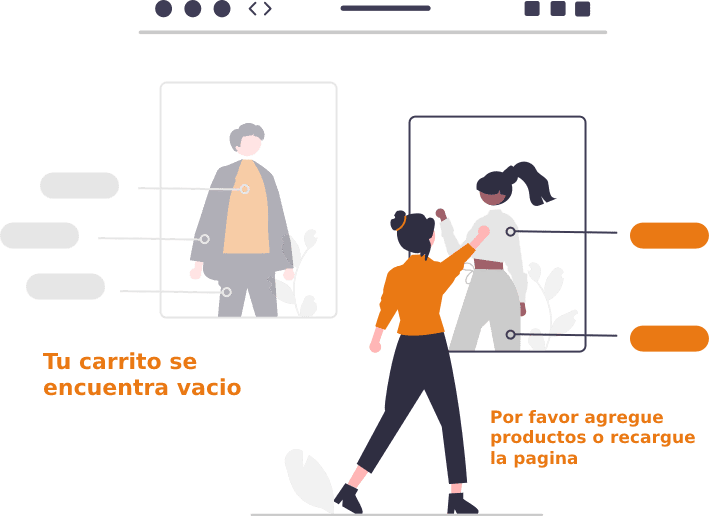
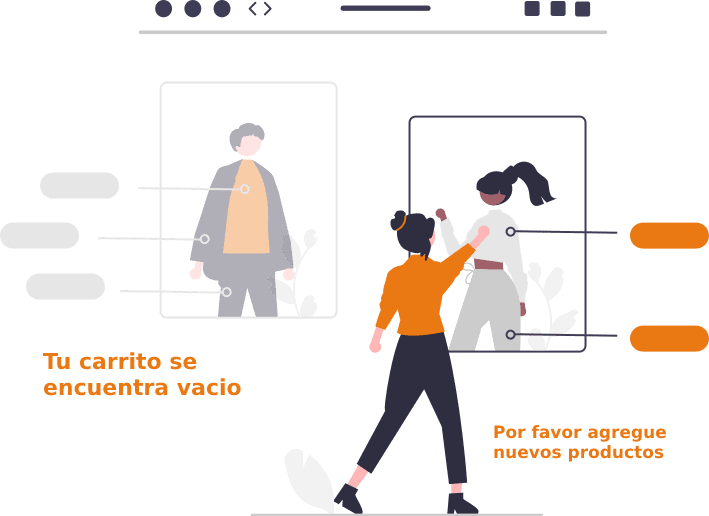
se arregla error

Changed region(s): [[0.6827, 0.7752, 0.9929, 0.8992]]

diff --git a/pages/carrito.html b/pages/carrito.html
@@ -14,8 +14,8 @@
     <link rel="icon" href="../img/icono.png">
     <link rel="stylesheet" href="https://cdn.jsdelivr.net/npm/bootstrap-icons@1.10.3/font/bootstrap-icons.css">
     <link rel="stylesheet" href="https://cdnjs.cloudflare.com/ajax/libs/animate.css/4.1.1/animate.min.css" />
-    <script defer src="../js/main.js"></script>
     <script defer src="../js/carrito.js"></script>
+    <script defer src="../js/main.js"></script>
     <script defer src="../js/darkmode.js"></script>
     <script defer src="../js/sweetAlert.js"></script>
 

diff --git a/pages/remeras.html b/pages/remeras.html
@@ -12,6 +12,7 @@
     <link rel="stylesheet" href="https://cdn.jsdelivr.net/npm/bootstrap-icons@1.10.3/font/bootstrap-icons.css">
     <link rel="stylesheet" type="text/css" href="https://cdn.jsdelivr.net/npm/toastify-js/src/toastify.min.css">
     <title>Urban Outfitters</title>
+    <script defer src="../js/carrito.js"></script>
     <script defer src="../js/main.js"></script>
     <script defer src="../js/darkmode.js"></script>
 

diff --git a/pages/zapatillas.html b/pages/zapatillas.html
@@ -12,6 +12,7 @@
     <link rel="stylesheet" href="https://cdn.jsdelivr.net/npm/bootstrap-icons@1.10.3/font/bootstrap-icons.css">
     <link rel="stylesheet" type="text/css" href="https://cdn.jsdelivr.net/npm/toastify-js/src/toastify.min.css">
     <title>Urban Outfitters</title>
+    <script defer src="../js/carrito.js"></script>
     <script defer src="../js/main.js"></script>
     <script defer src="../js/darkmode.js"></script>
 

diff --git a/pages/buzos.html b/pages/buzos.html
@@ -13,6 +13,8 @@
     <link rel="stylesheet" type="text/css" href="https://cdn.jsdelivr.net/npm/toastify-js/src/toastify.min.css">
     <link href="https://fonts.googleapis.com/css2?family=Oswald:wght@500&display=swap" rel="stylesheet">
     <title>Urban Outfitters</title>
+    <script defer src="../js/carrito.js"></script>
+
     <script defer src="../js/main.js"></script>
     <script defer src="../js/darkmode.js"></script>
 

diff --git a/pages/accesorio.html b/pages/accesorio.html
@@ -15,6 +15,8 @@
     <link href="https://fonts.googleapis.com/css2?family=Oswald:wght@500&display=swap" rel="stylesheet">
 
     <title>Urban Outfitters</title>
+    <script defer src="../js/carrito.js"></script>
+
     <script defer src="../js/main.js"></script>
     <script defer src="../js/darkmode.js"></script>
 

diff --git a/pages/pantalones.html b/pages/pantalones.html
@@ -14,6 +14,8 @@
     <link href="https://fonts.googleapis.com/css2?family=Oswald:wght@500&display=swap" rel="stylesheet">
 
     <title>Urban Outfitters</title>
+    <script defer src="../js/carrito.js"></script>
+
     <script defer src="../js/main.js"></script>
     <script defer src="../js/darkmode.js"></script>
 
